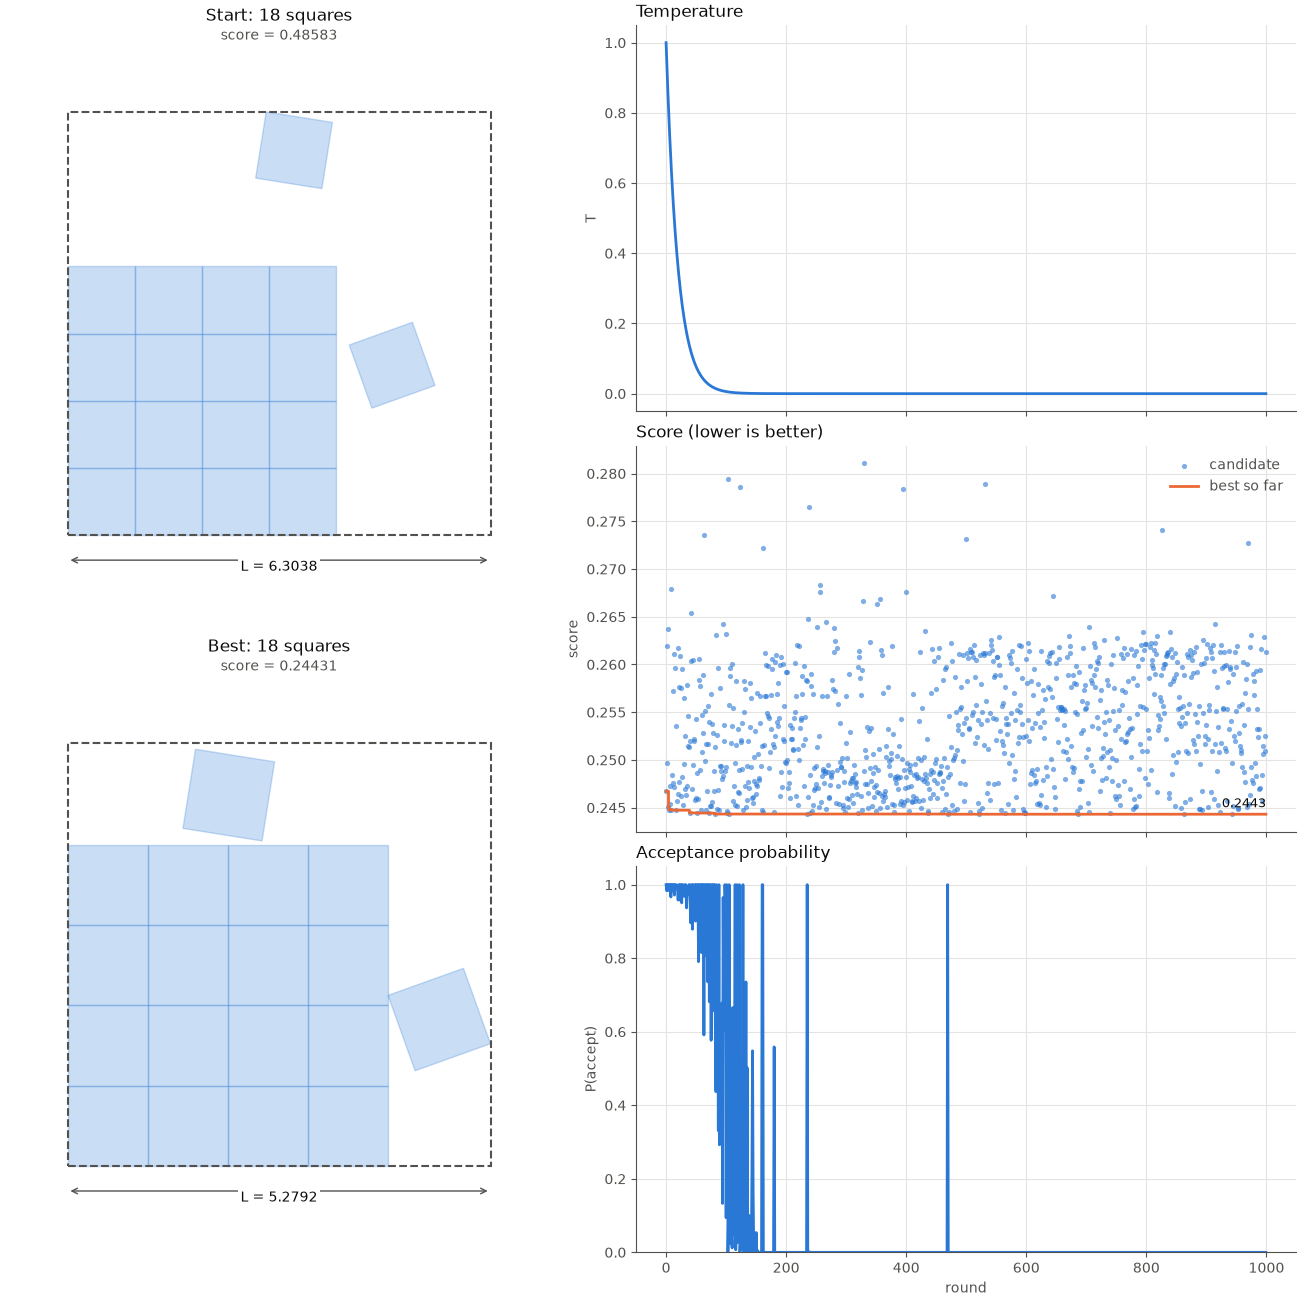
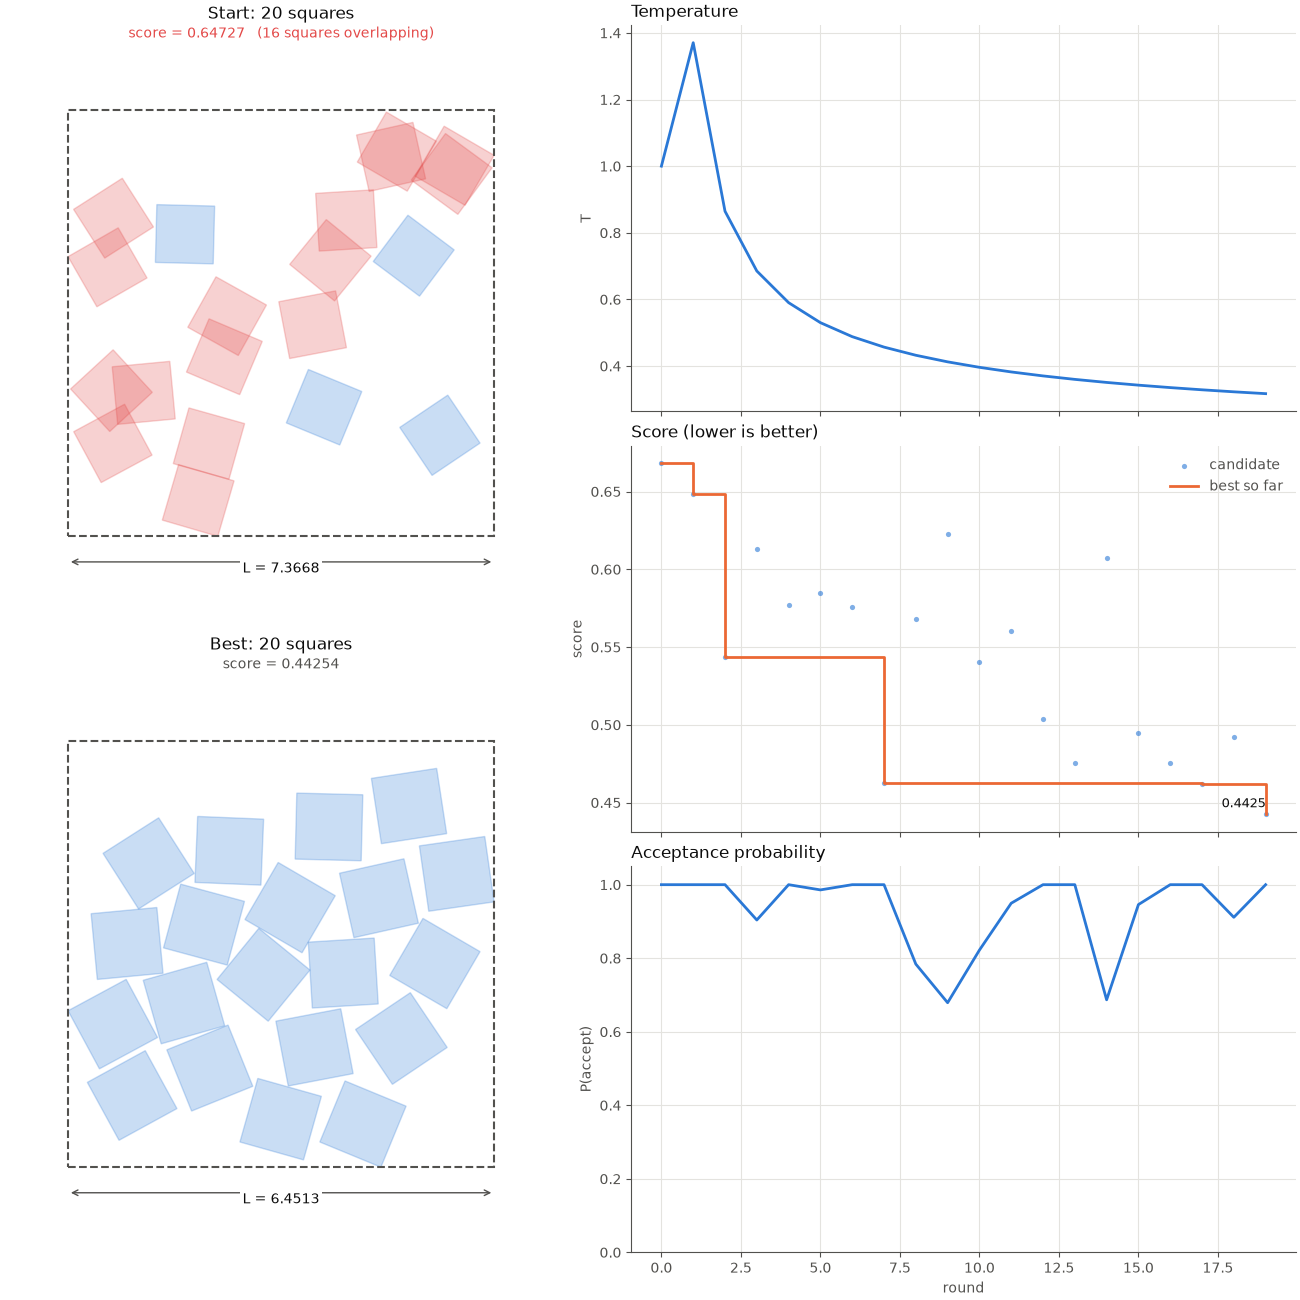
code: added lfbgs implementation after defining simple loss function

diff --git a/src/sis/optimize.py b/src/sis/optimize.py
@@ -1,11 +1,15 @@
 """
 Contains functions for applying simulated annealing to the square packing problem.
 """
+import math
 from typing import Callable
 import numpy as np
+import shapely
 from scipy.spatial.distance import pdist
-from sis.geometry import overlaps, grid
+from scipy.optimize import minimize
+from sis.geometry import overlaps, grid, polygons, corners, container_side
 from sis.score import puzzle_score
+from sis.validate import is_valid
 # Minimum separation allowing full rotation of a unit square
 # is 2 * 1/sqrt(2) = sqrt(2)
 _MIN_SEP = np.sqrt(2)
@@ -130,12 +134,14 @@ def compact(
         # makes all squares movable if fixed is None
         fixed = np.zeros(n, dtype=bool)
     movable = np.flatnonzero(~fixed)  
-
+    if movable.size == 0:
+        # shouldn't expect this, but add this case to guard
+        return sq 
 
     for _ in range(steps):
         #if _ % 1000 == 0:
         #    print(f"Compaction step: {_}")
-        i = rng.integers(n)
+        i = rng.choice(movable)     # pick a random index from the movable squares
         orig_sq = sq[i].copy()      # the square PRIOR to any changes. Save the state to allow reverting.
         c = sq[:, :2].mean(axis=0)  # the centroid (mean of all centers) of our squares
         direction = c - sq[i, :2]
@@ -170,6 +176,7 @@ def anneal(
         overlaps: Callable = overlaps, 
         rounds=100, 
         T=0.1, 
+        T_method='inv_log',
         cooling=0.97, 
         perturbance=1.3,
         fixed=None,
@@ -191,7 +198,10 @@ def anneal(
         i. High temperatures = Higher Probability
         ii. Worse solutions (higher d) = Lower Probability
 
+    `T_method` includes 'mult' for multiplicative reduction with `cooling`, 'inv_log' for T = 
+
     """
+    T0 = T
     rng = np.random.default_rng(seed)
     if fixed is None:
         cur = compact(separate(sq), overlaps, **compact_options)
@@ -202,9 +212,9 @@ def anneal(
     probabilities = []
     candidate_scores = []
 
-    for _ in range(rounds):
+    for j in range(rounds):
         
-        print(f"Annealing round {_}, T={T}")
+        print(f"Annealing round {j}, T={T}")
         cand = compact(perturb(cur, factor=perturbance, fixed=fixed), fixed=fixed, **compact_options)
 
         # compare score difference. If candidate is lower, then
@@ -231,8 +241,107 @@ def anneal(
             probabilities=probabilities,
             scores=candidate_scores
         )
-
-        T *= cooling
+        if T_method == 'mult':
+            T *= cooling
+        elif T_method == 'inv_log':
+            T = (T0 * cooling) / math.log(j+2)
     return results
+
+
+#######################################################
+# IMPLEMENTING A CLASSICAL METHOD: GRADIENT DESCENT
+#######################################################
+# TODO: define a loss function that we can use for a gradient descent method.
+# In this method, loss should consider (1) the size of container L,
+# (2) the overlap of squares with each other, and maybe (3) squares the exceed the container L's bounds.
+# So, loss = L + overlap of squares i,j + overlap of square i beyond L 
+#
+# Thus, we have three penalties to add that gives us a loss.
+#
+# The main variables are x, y, and theta.
+# To simplify things, we let shapely compute the overlap,
+# so we don't need to manually write the formula...
+
+def loss(sq: np.ndarray, L, lam=10.0):
+    """
+    Returns the loss based on current square configurations.
+    """
+
+    sq = np.asarray(sq, dtype=float)
+
+    # exact overlap area over all pairs i < j, in one vectorized call
+    # convert squares to shapely polygons.
+    polys = polygons(sq)
+    i, j = np.triu_indices(len(sq), k=1) # succinct way to get (i, j) for i < j; it's the upper triangle
+
+    # FIRST PENALTY
+    # vectorized shapely intersections between (i, j); get area then sum.
+    overlap = shapely.area(shapely.intersection(polys[i], polys[j])).sum()
+
+    # SECOND PENALTY
+    # Compute square corners; we know that all corners MUST be inside L.
+    # every corner must sit inside [0, L] x [0, L]
+    c = corners(sq)
+
+    # note: this is computed element-wise; so compute this for x term,
+    # then for y term, and sum them both to get the total penality for a given square,
+    # then sum all squares to get total pentalty for all squares.
+    outside = (np.maximum(0, -c)**2 + np.maximum(0, c - L)**2).sum()
+
+    # THIRD PENALTY: container size L
+    return L + lam * (overlap + outside)
+
+
+def flat_loss(p, n, lam=10.0):
+    """
+    Wraps `loss()` and allows it to be called if `p` is a 1D array. 
+
+    E.g:
+
+        sq = [x1, y1, angle1, ..., xn, yn, anglen, L]
+
+    The lambda coefficient tells us how much violations of boundaries 
+    (square overlaps, boundary overlaps) should contribute to loss,
+    compared to the box size L, which we also want to reduce.
+
+    """
+    # so sq[-1], the last element, holds L0 (our initial L) or the current L in the descent.
+    # and all the squares are everything else, hence :-1.
+    # This single 1-D array is reshaped to n squares, each representing a triplet
+    # of x, y, angle.
+    return loss(p[:-1].reshape(n, 3), p[-1], lam)
+
+def lbfgs(sq: np.ndarray, n: int, lam_start):
+    # placeholder for increasing lambda over time.
+    L0 = container_side(sq)
+    sq0 = np.append(sq.ravel(), L0) # this attaches L0 to the very end
+    losses = [flat_loss(sq0, n, lam_start)]
+    def callback(intermediate_result):
+        losses.append(intermediate_result.fun) 
+    res = minimize(flat_loss, sq0, args=(n, lam_start), method="L-BFGS-B", callback=callback)
+    sq_opt = res.x[:-1].reshape(n, 3)       
+    L_opt = res.x[-1]
+    return sq, sq_opt, L_opt, losses
+
+def seq_lbfgs(sq: np.ndarray, n: int, lam_start, lam_mult=10.0, lam_stages=4):
+    """Repeated L-BFGS, raising lam by lam_mult each stage and warm-starting from the last result."""
+    p = np.append(sq.ravel(), container_side(sq))   # [x1, y1, a1, ..., L]
+    losses = []
+    def callback(intermediate_result):
+        losses.append(intermediate_result.fun)
+
+    lam = lam_start
+    for _ in range(lam_stages):
+        losses.append(flat_loss(p, n, lam))          # loss at the start of this stage
+        res = minimize(flat_loss, p, args=(n, lam), method="L-BFGS-B", callback=callback)
+        p = res.x                                     # warm start the next stage
+        if is_valid(n, p[:-1].reshape(n, 3)):
+            break
+        lam *= lam_mult
+
+    return sq, p[:-1].reshape(n, 3), p[-1], losses
+a
+
+    
 
     

diff --git a/main.py b/main.py
@@ -25,6 +25,7 @@ import tempfile
 from pathlib import Path
 
 import numpy as np
+from scipy.optimize import minimize 
 
 import sis.visualize as sv
 from sis import submission
@@ -32,7 +33,13 @@ from sis.geometry import container_side, corners, grid
 from sis.score import grid_score, puzzle_score, total
 from sis.store import SolutionStore
 from sis.validate import is_valid, problems
-from sis.optimize import separate, anneal, init_random, block_start
+from sis.optimize import (
+    separate,
+    anneal,
+    init_random, 
+    block_start,
+    flat_loss
+)
 
 
 def main():
@@ -73,30 +80,34 @@ def main():
     print(f"separated squares in clash: {problems(n, sep_clash)}")
     print('=' * 50)
 
+    ############################################################
+    # SIMULATED ANNEALING EXAMPLE
+    ############################################################
     print('#' * 50)
     print("\n\nDemonstration of the simulated annealing algorithm")
 
-    # PARAMS:
     n=20
     T = 1.0
     cooling = 0.95
     perturbance = 1.5
-    rounds=1000
+    rounds=20
     compact_options={
         'rotation':'45',
-        'steps':1000
+        'steps':1000,
+        'step':0.1
     }
 
 
-    init, fixed = block_start(n=n)
-    # init = init_random(n=n)
+    #init, fixed = block_start(n=n)
+    init = init_random(n=n)
     # init = grid(n)
-
+    fixed=None
     
     results = anneal(
         n, 
         init, 
         T = T, 
+        T_method='inv_log',
         cooling=cooling, 
         perturbance=perturbance, 
         rounds=rounds, 
@@ -114,6 +125,64 @@ def main():
     print(f"Any problems? We'll see them here (though we shouldnt!!): {problems(n, candidate_best)}")
     print('#' * 50)
 
+    ############################################################
+    #   L-BFGS EXAMPLES
+    #   (1) L-BFGS
+    #   (2) Post-processing with simulated annealing.
+    ############################################################
+    print('#' * 50)
+    print("\nExample using L-BFGS:")
+    lam = 10.0
+    sq = init
+    L0 = container_side(sq)
+    sq0 = np.append(sq.ravel(), L0) # this attaches L0 to the very end           
+
+    # minimize calls this after every iteration; naming the argument
+    # `intermediate_result` makes scipy pass the current OptimizeResult,
+    # so the loss (.fun) is already computed for us.
+    losses = [flat_loss(sq0, n, lam)]
+    def callback(intermediate_result):
+        losses.append(intermediate_result.fun)
+
+    res = minimize(flat_loss, sq0, args=(n, lam), method="L-BFGS-B", callback=callback)
+
+    print(f"L-BFGS: lambda {lam}, L0: {L0}")
+
+    sq_opt = res.x[:-1].reshape(n, 3)       
+    L_opt = res.x[-1]
+
+
+    fig = sv.plot_descent(sq, sq_opt, losses)
+    fig.savefig("demo_lbfgs.png")
+    print(f"L_opt: {L_opt}")
+    print(f"Solution from L-BFGS: packing for n={n}: valid={is_valid(n, sq_opt)}, "
+          f"side={container_side(sq_opt):.6f}, score={puzzle_score(n, sq_opt):.6f}")
+
+
+    print('#' * 50)
+    print("APPLYING SIMULATED ANNEALING TO L-BFGS RESULTS")
+    compact_options={
+        'rotation':'random',
+        'steps':1000,
+        'step':0.1
+    }
+    
+    # borrow the same simulated annealing parameters above.
+    results = anneal(
+        n, 
+        sq_opt, 
+        T = T, 
+        T_method='inv_log',
+        cooling=cooling, 
+        perturbance=perturbance, 
+        rounds=rounds, 
+        seed=None,
+        fixed=fixed,
+        **compact_options
+    )
+
+    fig = sv.plot_annealing(results)
+    fig.savefig("demo_anneal_post_lfbgs.png")  
 
     # the store keeps only valid, strictly better packings per n.
     # a throwaway directory here; the real store defaults to ./solutions.

diff --git a/src/sis/visualize.py b/src/sis/visualize.py
@@ -6,6 +6,7 @@ can be dropped into notebooks or combined into larger figures.
 import matplotlib.pyplot as plt
 import numpy as np
 from matplotlib.patches import Polygon as PolygonPatch, Rectangle
+from matplotlib.ticker import StrMethodFormatter
 
 from sis.geometry import container_side, corners, overlapping_pairs
 from sis.optimize import AnnealResults
@@ -195,6 +196,47 @@ def plot_annealing(results: AnnealResults):
     for key in ("T", "score"):
         axes[key].set_xlabel("")
         axes[key].tick_params(labelbottom=False)
+    return fig
+
+
+#############################################
+#               L-BFGS PLOTS
+# same idea as the annealing plots, but for a
+# gradient run: the loss is recorded per iteration.
+#############################################
+
+# helper function for visualizing loss, using log scaling due to big drop
+def plot_losses(losses, ax=None):
+    """Loss per L-BFGS iteration (iteration 0 is the starting solution)."""
+    if ax is None:
+        _, ax = plt.subplots(figsize=(7, 3), layout="constrained")
+    losses = np.asarray(losses, dtype=float)
+    its = np.arange(len(losses))
+    ax.plot(its, losses, color=_BLUE, linewidth=2)
+    ax.annotate(f"{losses[-1]:.4f}", (its[-1], losses[-1]), xytext=(0, 5),
+                textcoords="offset points", ha="right", color=_INK, fontsize=9)
+    # the loss usually drops A LOT (overlaps get pushed apart = big loss change),
+    # so a log scale keeps run readable.
+    if losses.min() > 0:
+        ax.set_yscale("log")
+        ax.yaxis.set_major_formatter(StrMethodFormatter("{x:g}"))   # 6 instead of 6x10^0
+        ax.yaxis.set_minor_formatter(StrMethodFormatter("{x:g}"))
+        ax.tick_params(which="minor", colors=_INK_2, labelsize=8)
+    ax.set_title("Loss (lower is better)", loc="left", color=_INK)
+    _style(ax, "iteration", "loss")
+    return ax
+
+
+def plot_descent(start: np.ndarray, end: np.ndarray, losses):
+    """Starting (left) and final (right) solutions, with the loss curve underneath."""
+    fig, axes = plt.subplot_mosaic(
+        [["start", "end"],
+         ["loss", "loss"]],
+        figsize=(13, 11), height_ratios=[2, 1], layout="constrained",
+    )
+    plot_solution(start, axes["start"], title="Start")
+    plot_solution(end, axes["end"], title="L-BFGS")
+    plot_losses(losses, axes["loss"])
     return fig
 
 
